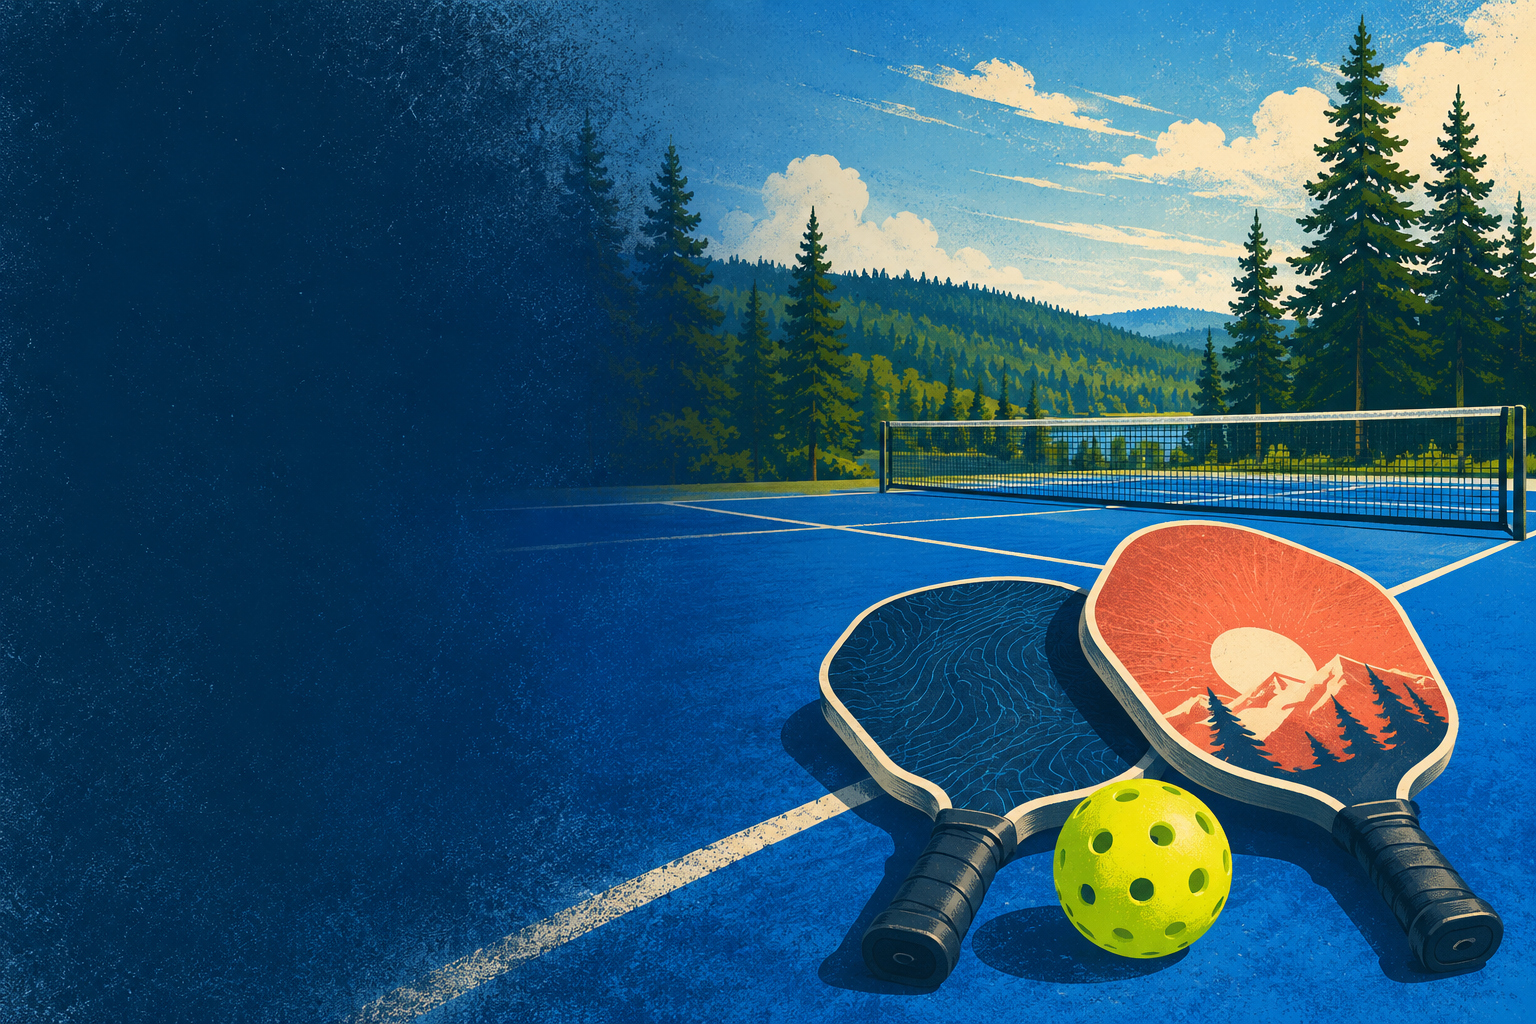
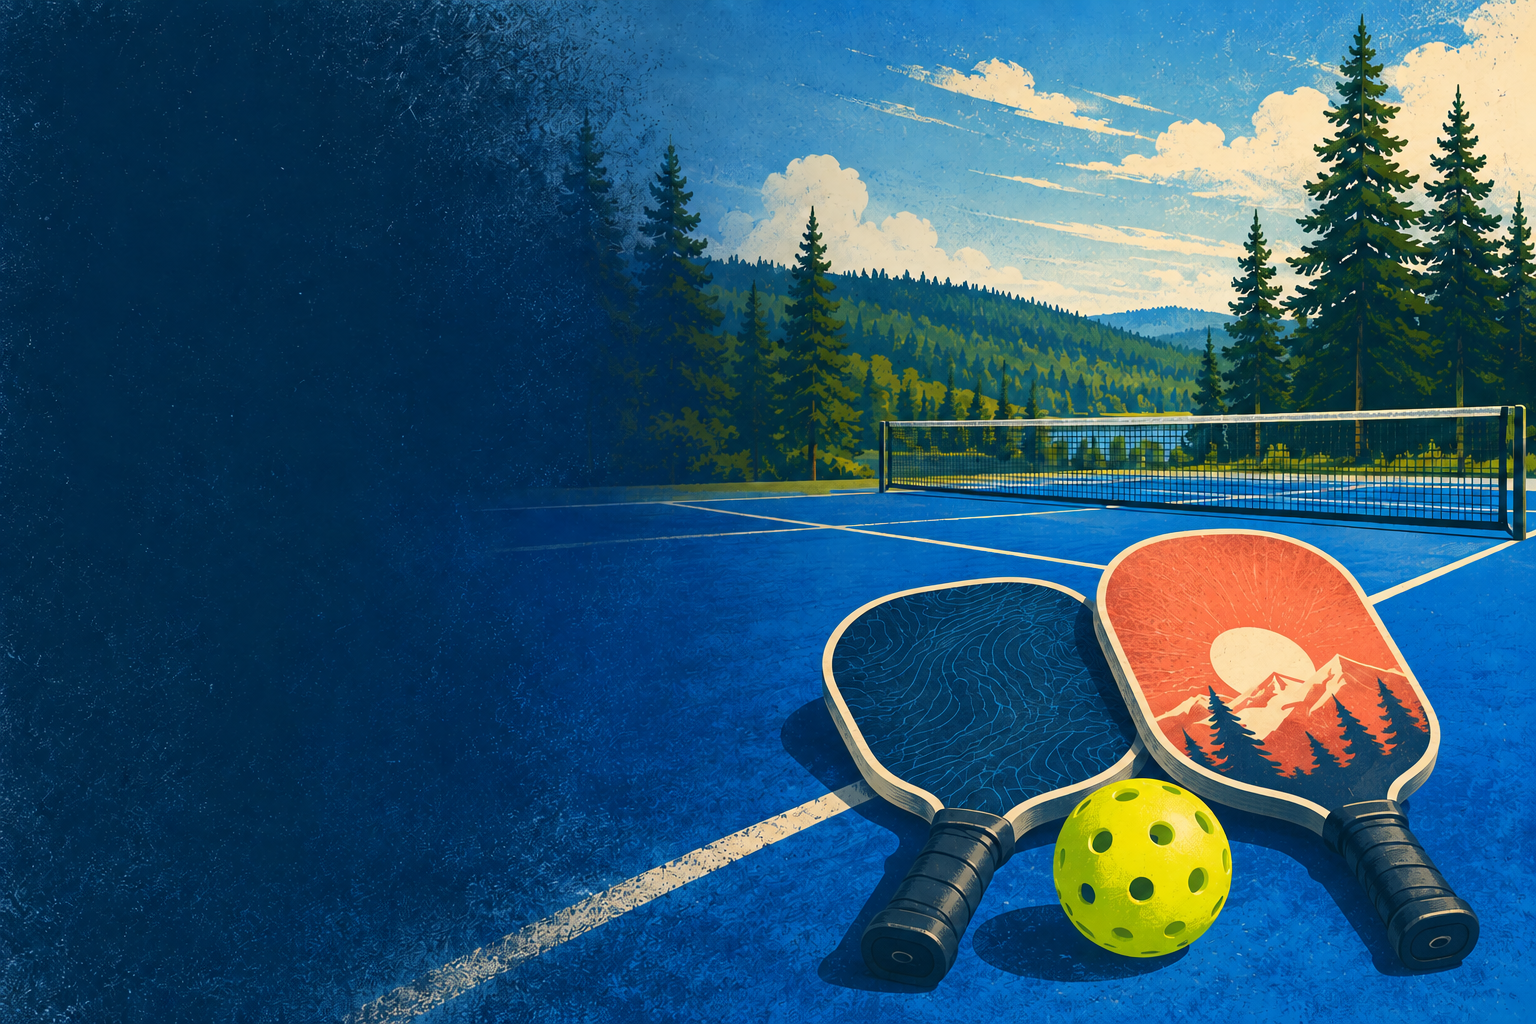
Refine hero paddles and add sponsor

diff --git a/components/tournament-site.tsx b/components/tournament-site.tsx
@@ -6,6 +6,7 @@ import {
   CalendarDays,
   CheckCircle2,
   Clock3,
+  ExternalLink,
   LoaderCircle,
   MapPin,
   Megaphone,
@@ -476,6 +477,31 @@ export function TournamentSite() {
                 <a href="#tournament">Tournament</a>
               </Button>
             </div>
+
+            <a
+              href="https://www.guildeddragon.com/"
+              target="_blank"
+              rel="noreferrer"
+              className="mt-7 inline-flex max-w-full items-center gap-3 rounded-2xl border border-white/20 bg-white/10 p-2 pr-4 text-white backdrop-blur transition hover:border-[var(--pickle)]/70 hover:bg-white/15 focus-visible:outline-none focus-visible:ring-2 focus-visible:ring-[var(--pickle)]"
+              aria-label="Visit tournament sponsor The Guilded Dragon"
+            >
+              <span className="grid size-14 shrink-0 place-items-center overflow-hidden rounded-xl bg-white p-1 shadow-sm">
+                <img
+                  src="/guilded-dragon-logo.png"
+                  alt="The Guilded Dragon logo"
+                  className="size-full object-contain"
+                />
+              </span>
+              <span className="min-w-0">
+                <span className="block text-[0.65rem] font-black uppercase tracking-[0.18em] text-[var(--pickle)]">
+                  Proudly sponsored by
+                </span>
+                <span className="mt-0.5 flex items-center gap-1.5 text-sm font-black sm:text-base">
+                  The Guilded Dragon
+                  <ExternalLink className="size-3.5 shrink-0" />
+                </span>
+              </span>
+            </a>
           </div>
         </div>
       </section>
